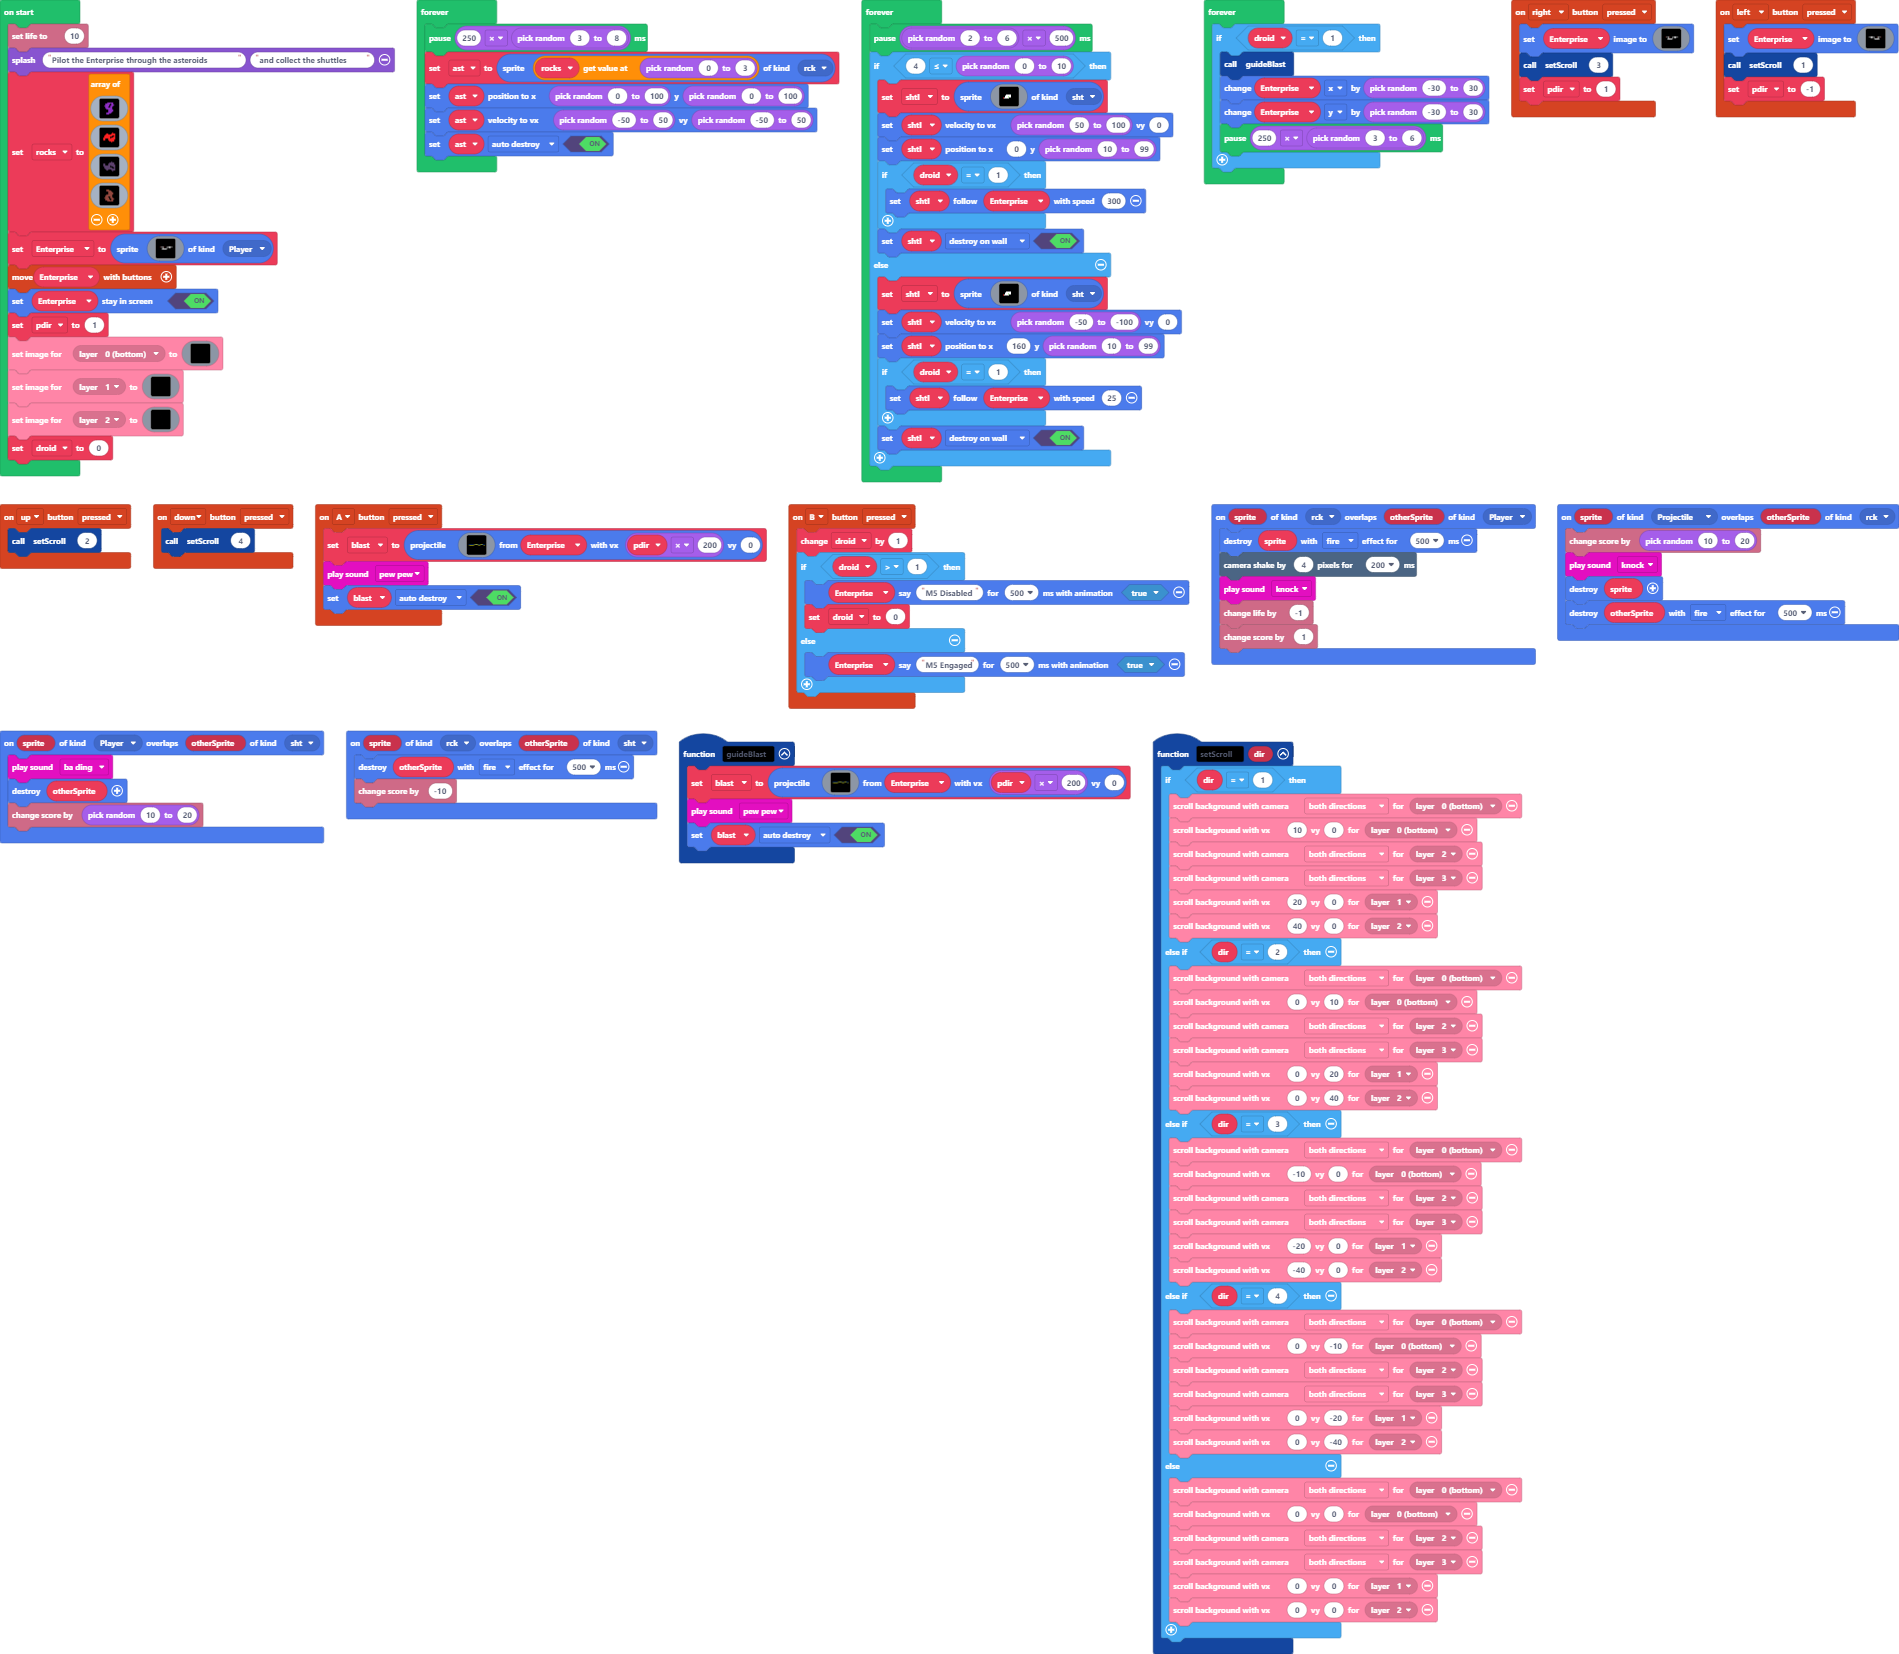
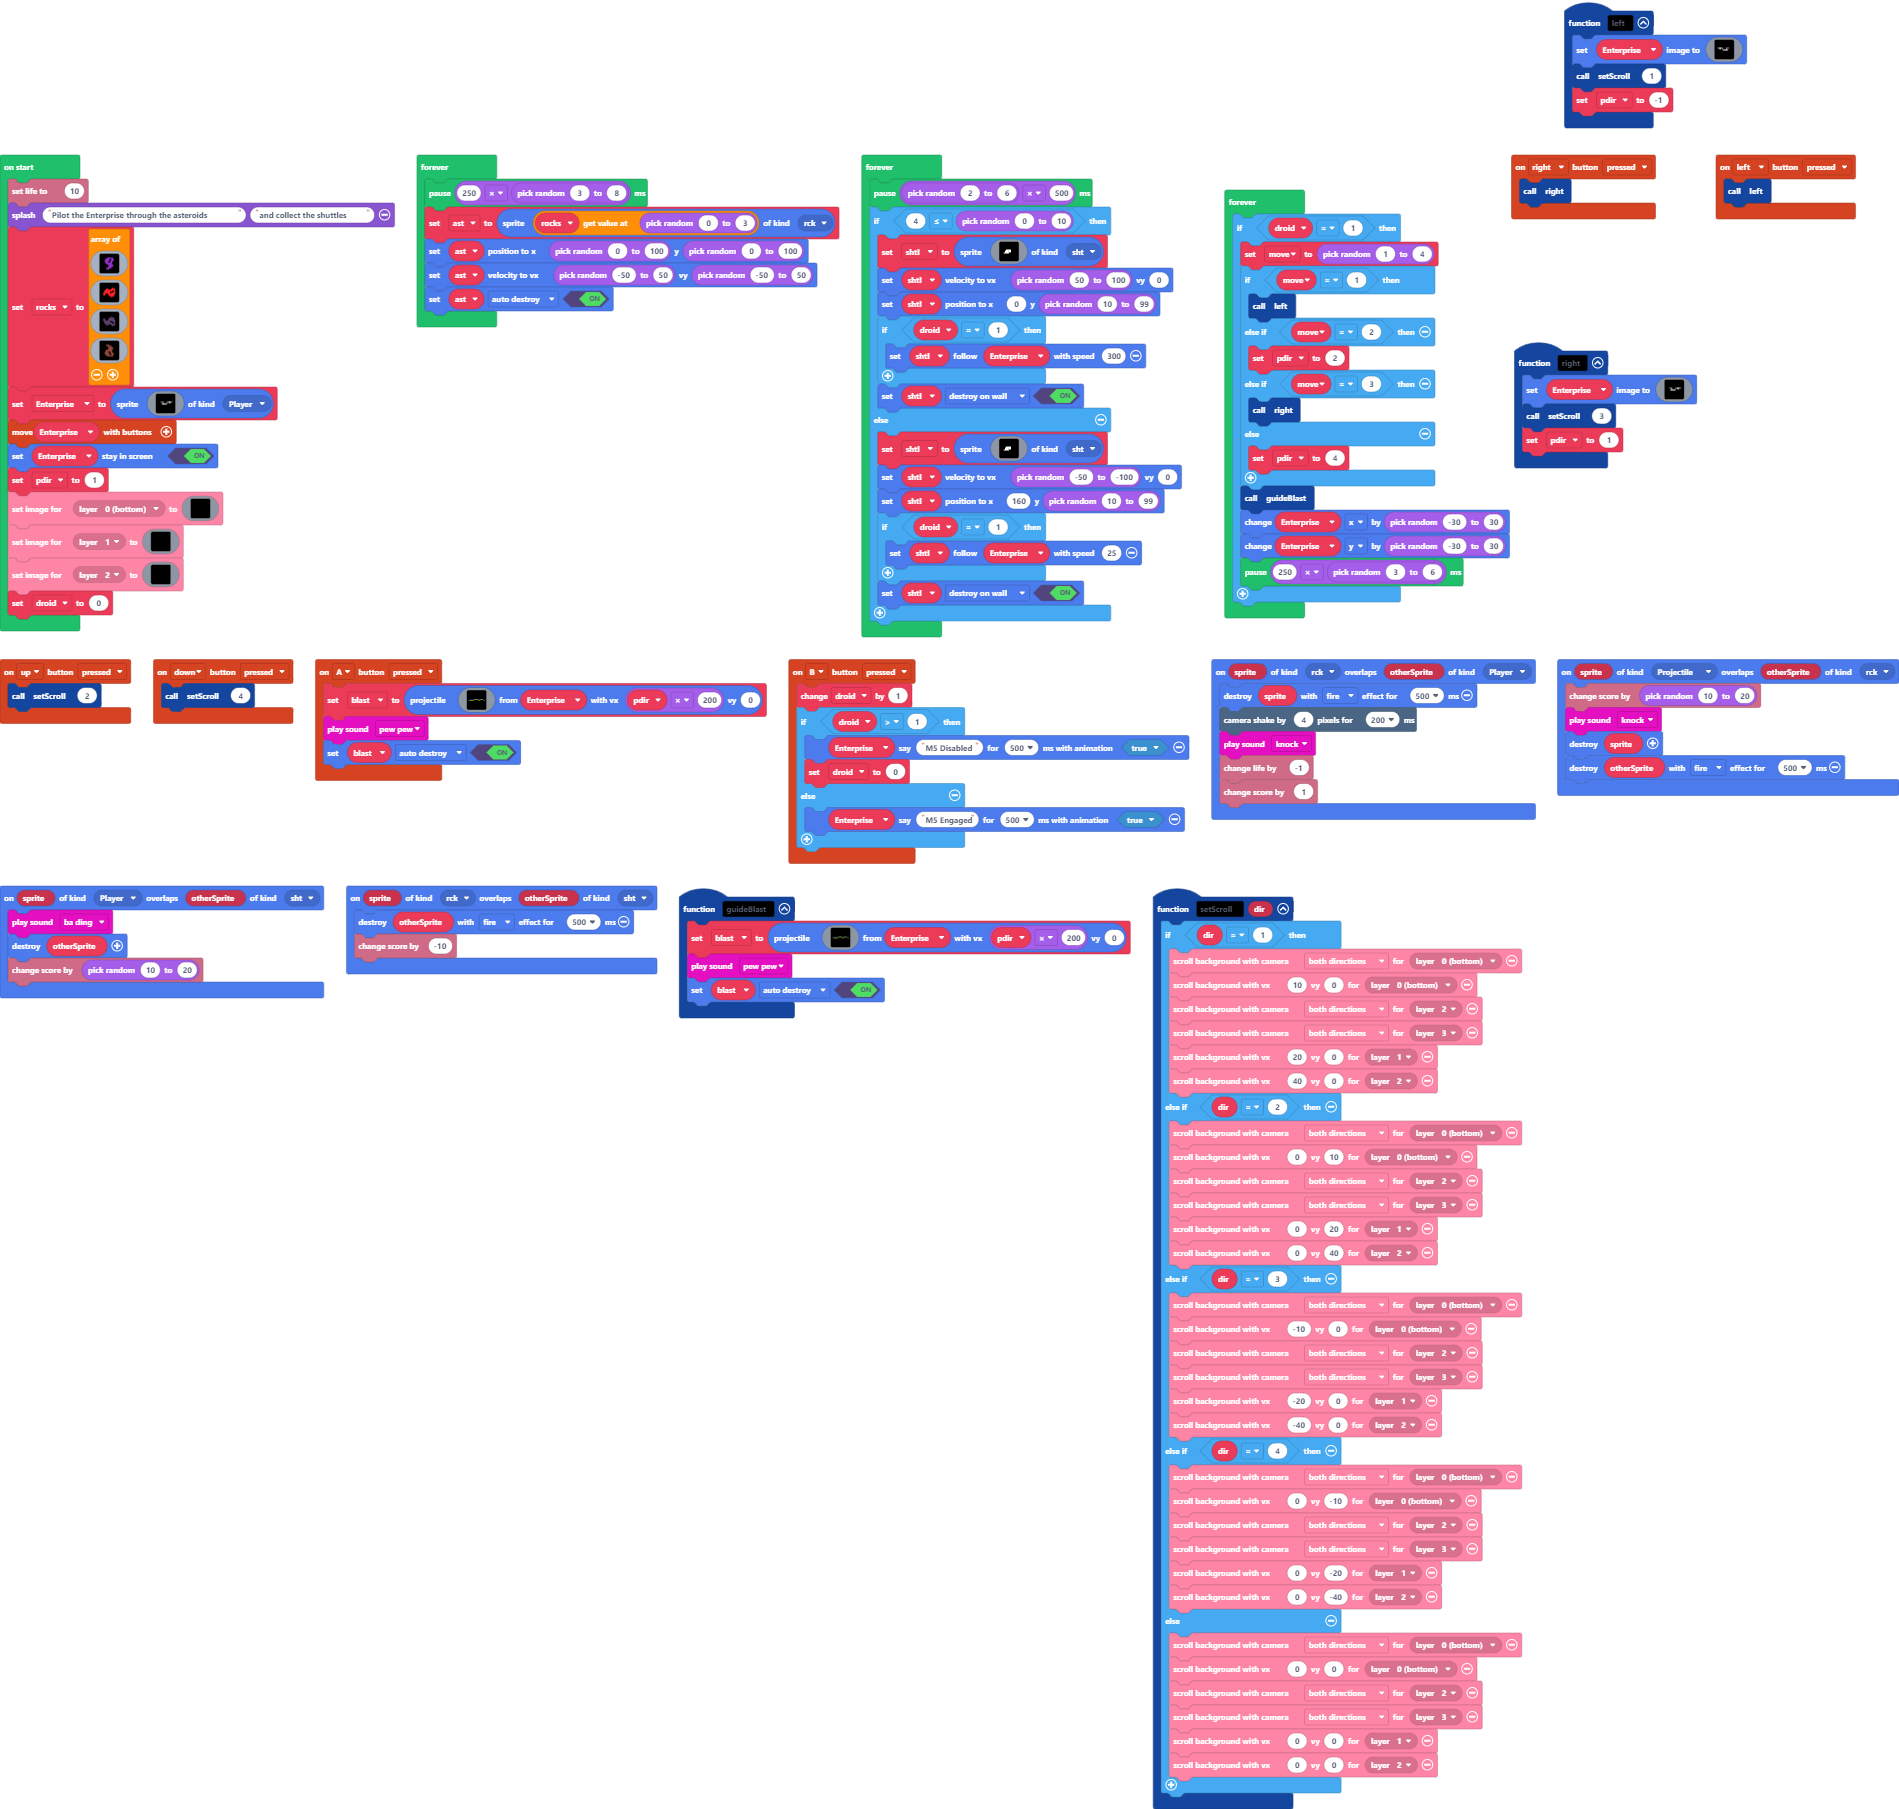
Update pxt.json, main.blocks, main.ts

diff --git a/main.ts b/main.ts
@@ -2,6 +2,11 @@ namespace SpriteKind {
     export const rck = SpriteKind.create()
     export const sht = SpriteKind.create()
 }
+function right () {
+    Enterprise.setImage(assets.image`ship1`)
+    setScroll(3)
+    pdir = 1
+}
 controller.up.onEvent(ControllerButtonEvent.Pressed, function () {
     setScroll(2)
 })
@@ -62,10 +67,13 @@ controller.A.onEvent(ControllerButtonEvent.Pressed, function () {
     music.pewPew.play()
     blast.setFlag(SpriteFlag.AutoDestroy, true)
 })
-controller.left.onEvent(ControllerButtonEvent.Pressed, function () {
+function left () {
     Enterprise.setImage(assets.image`ship0`)
     setScroll(1)
     pdir = -1
+}
+controller.left.onEvent(ControllerButtonEvent.Pressed, function () {
+    left()
 })
 sprites.onOverlap(SpriteKind.Projectile, SpriteKind.rck, function (sprite, otherSprite) {
     info.changeScoreBy(randint(10, 20))
@@ -78,9 +86,7 @@ sprites.onOverlap(SpriteKind.rck, SpriteKind.sht, function (sprite, otherSprite)
     info.changeScoreBy(-10)
 })
 controller.right.onEvent(ControllerButtonEvent.Pressed, function () {
-    Enterprise.setImage(assets.image`ship1`)
-    setScroll(3)
-    pdir = 1
+    right()
 })
 function guideBlast () {
     blast = sprites.createProjectileFromSprite(assets.image`phaser`, Enterprise, pdir * 200, 0)
@@ -97,6 +103,7 @@ sprites.onOverlap(SpriteKind.rck, SpriteKind.Player, function (sprite, otherSpri
     info.changeLifeBy(-1)
     info.changeScoreBy(1)
 })
+let move = 0
 let shtl: Sprite = null
 let ast: Sprite = null
 let blast: Sprite = null
@@ -148,6 +155,16 @@ forever(function () {
 })
 forever(function () {
     if (droid == 1) {
+        move = randint(1, 4)
+        if (move == 1) {
+            left()
+        } else if (move == 2) {
+            pdir = 2
+        } else if (move == 3) {
+            right()
+        } else {
+            pdir = 4
+        }
         guideBlast()
         Enterprise.x += randint(-30, 30)
         Enterprise.y += randint(-30, 30)
